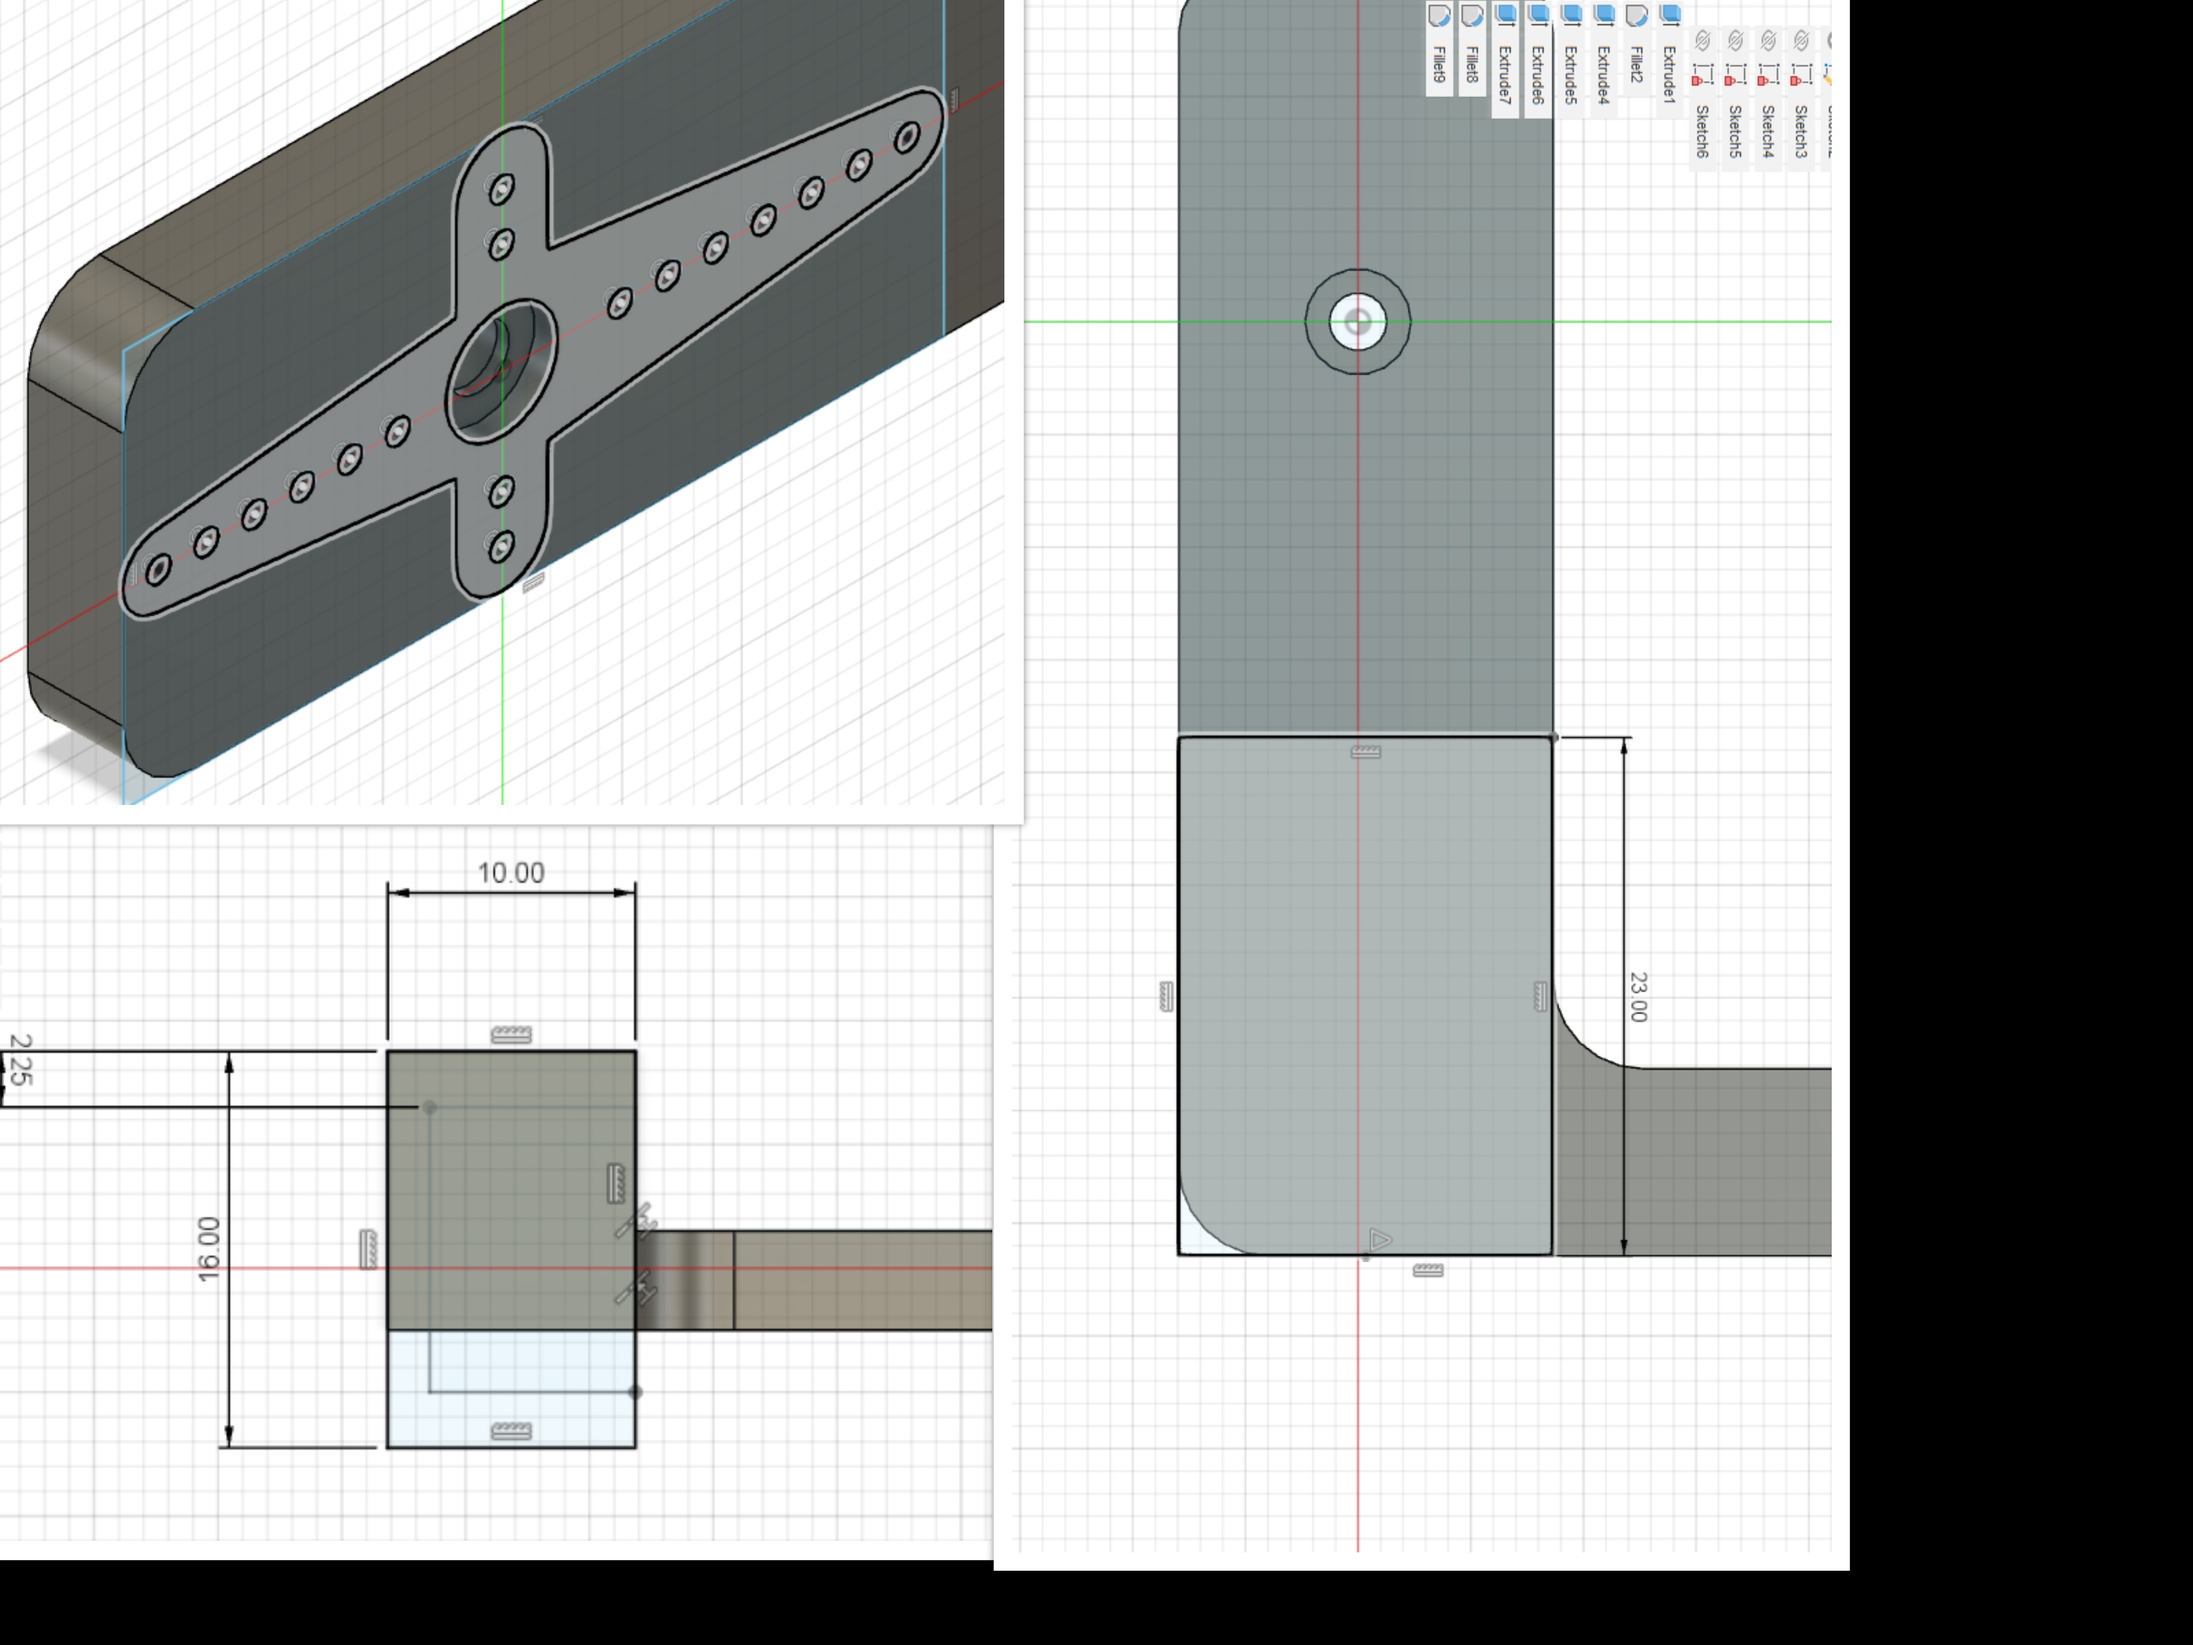
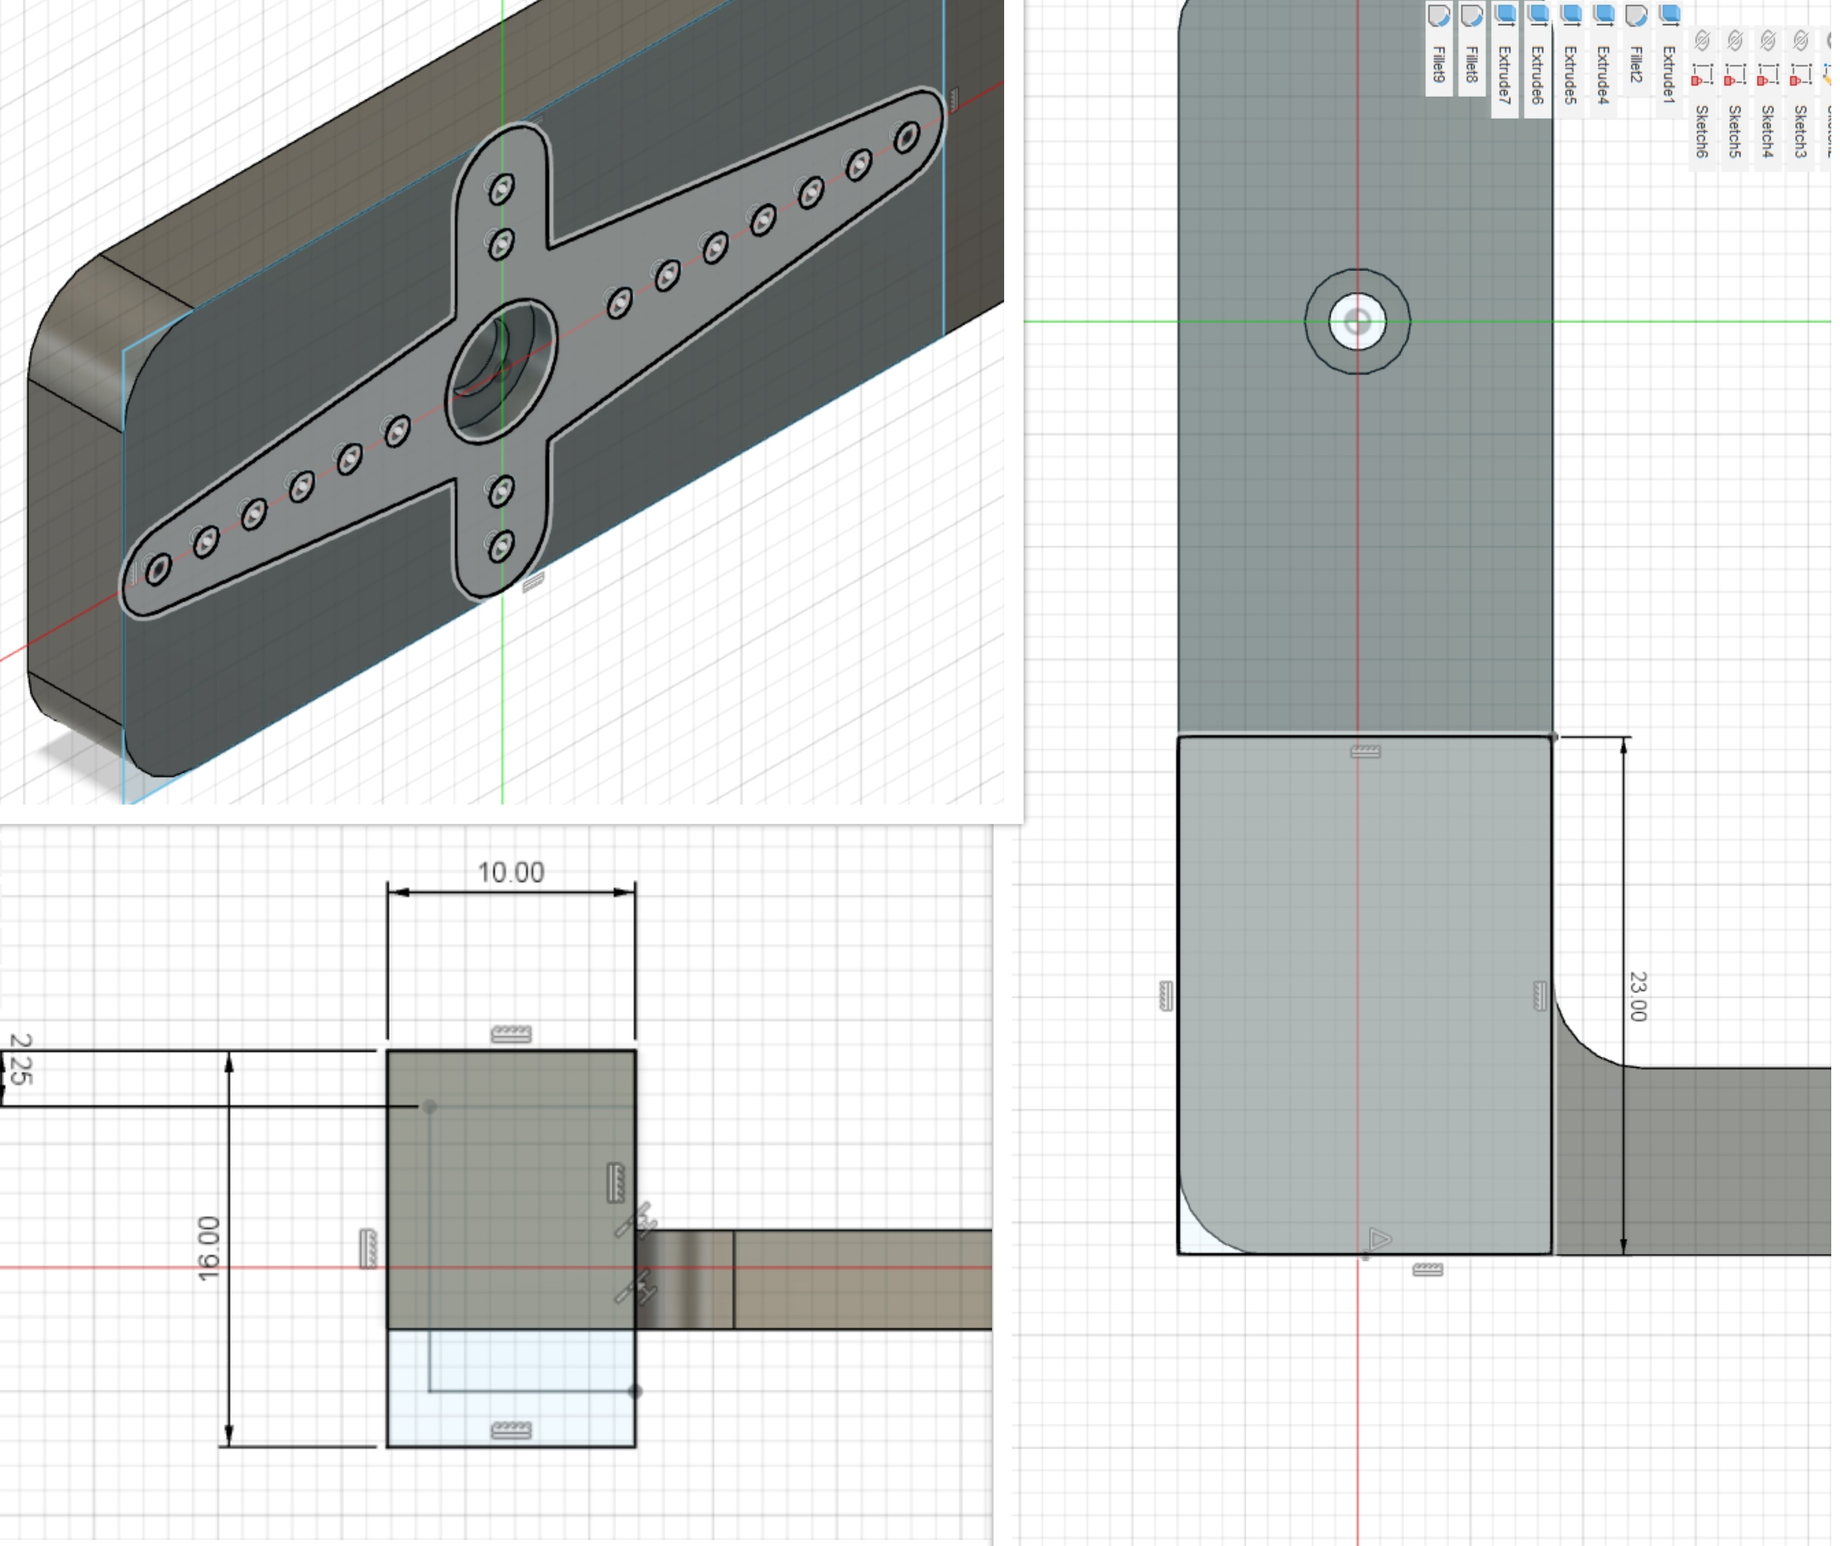
gdgd

diff --git a/docs/project.md b/docs/project.md
@@ -252,12 +252,12 @@ table.GeneratedTable thead {
 * Later on i extended it by another 20mm to fit according to my box.
 * Lastly, I made a L shaped extrusion up the arm and made a rectangular feature to push the button on toggle switch.
 
-![](images/fp30.png){: width="40%"}
+![](images/fp30.png){: width="35%"}
 * You should have this servo arm if you followed the steps above :)
 * We will slice it for 3d printing later :)
 
 ### Servo arm
-![](images/fp32.jpg){: width="50%"}
+![](images/fp32.png){: width="40%"}
 * This servo arm is similiar to the servo arm lid.
 * I referenced it from a cad model of the servo horn
 * I adjusted the height to 12mm instead and the length to 85mm.
